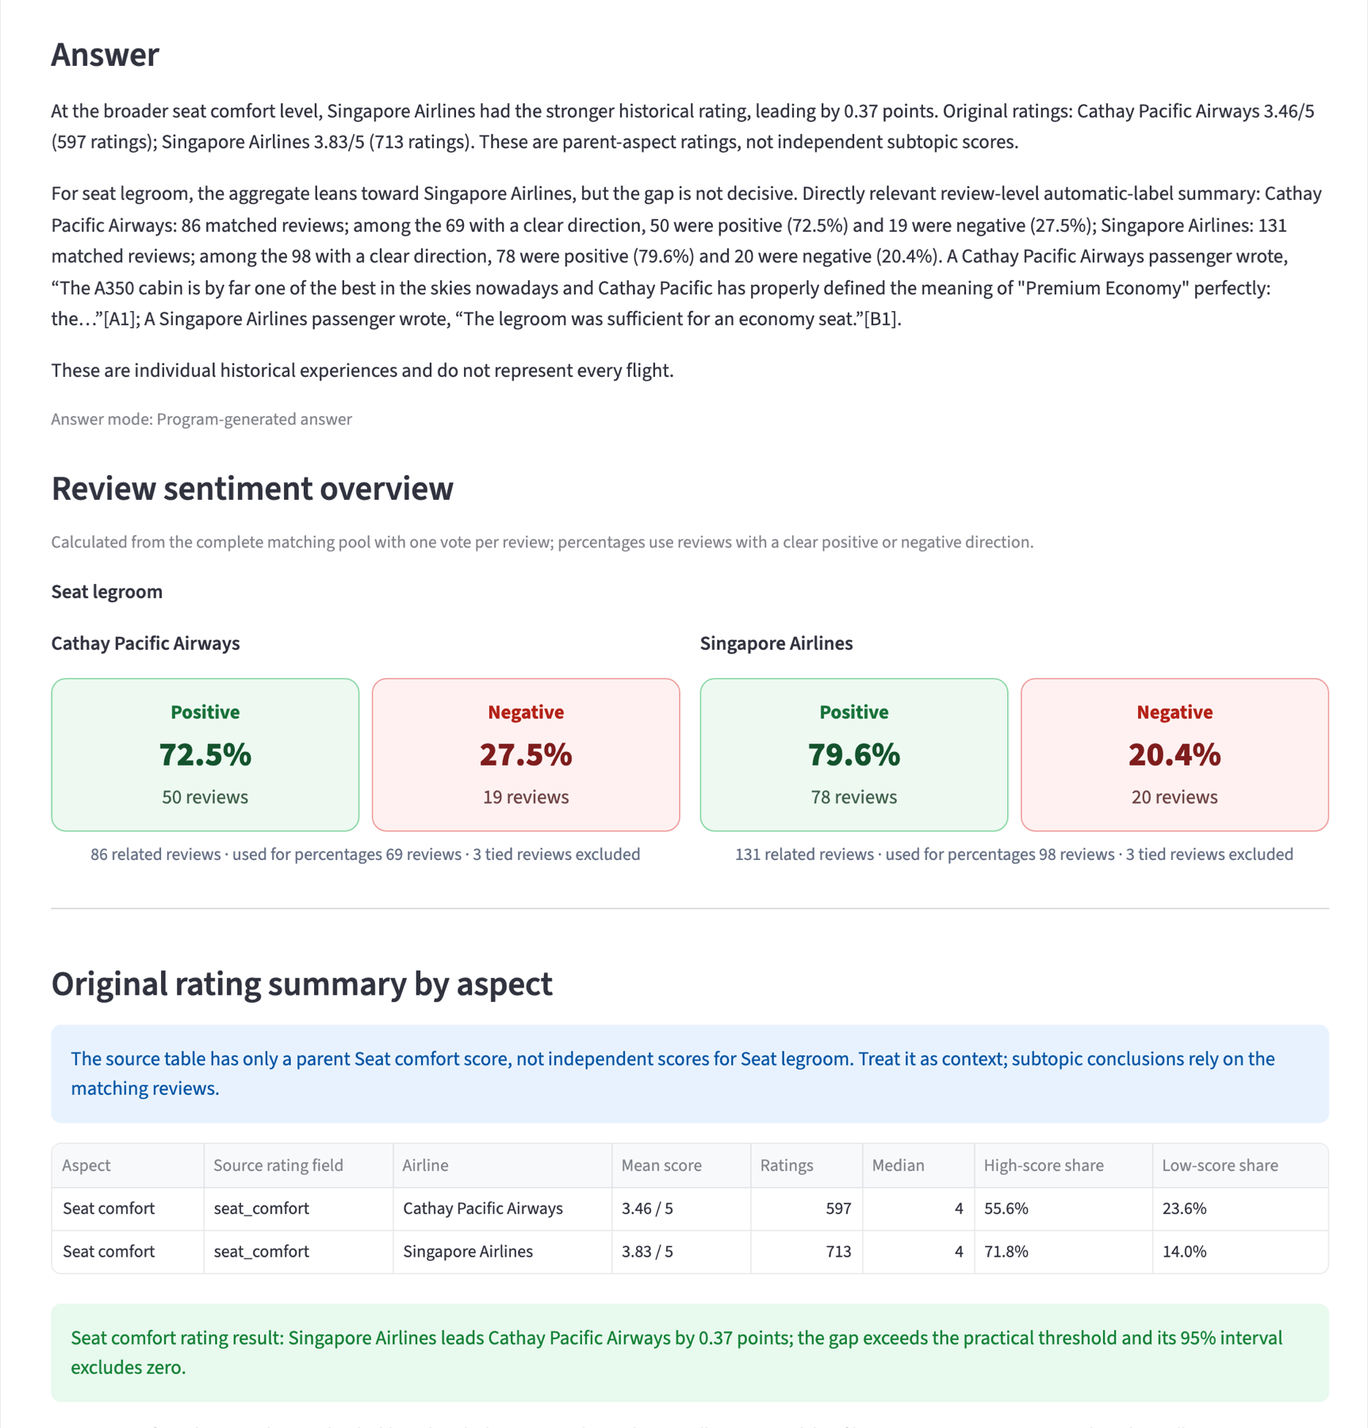
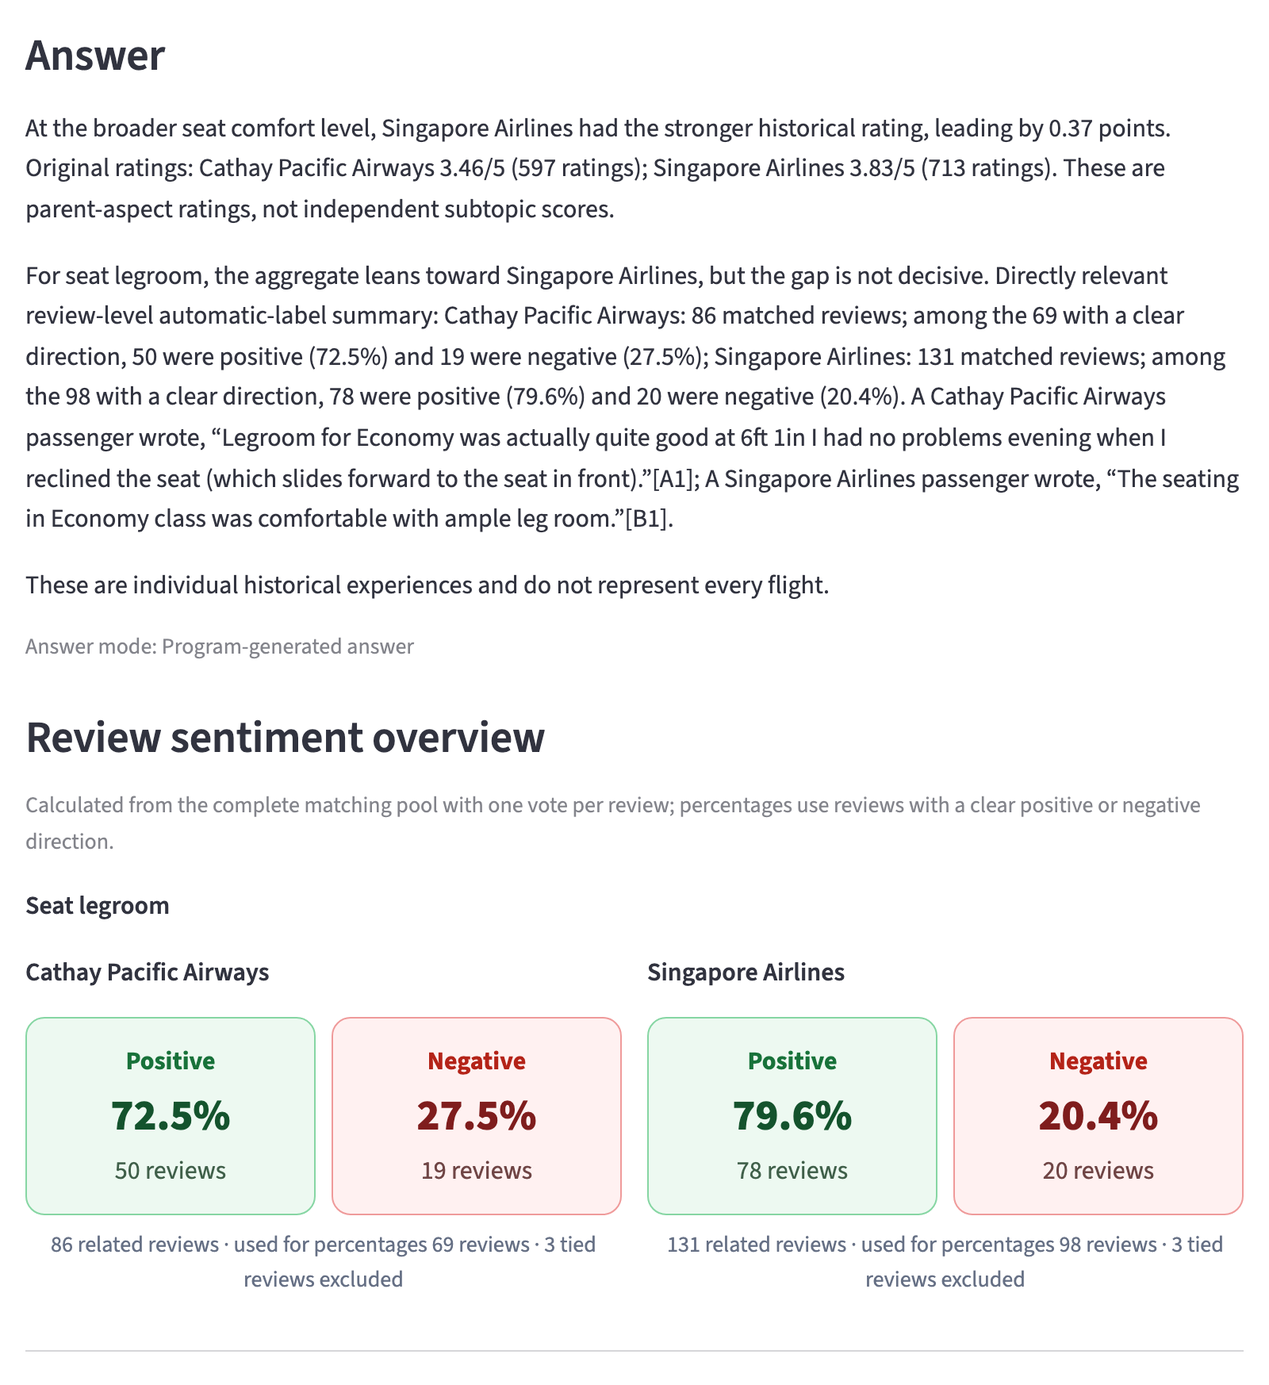
Report: retrieval innovation ablation (E1b), state-of-the-art context, legible UI figures, last matric number

diff --git a/report/final/main.tex b/report/final/main.tex
@@ -165,17 +165,30 @@ Q5 & Downstream innovations; ablation studies & \S\ref{sec:gen}, \S\ref{sec:exp-
 \paragraph{Retrieval.} Sparse retrieval with BM25~\cite{bm25} remains a strong baseline; dense bi-encoders such as
 Sentence-BERT~\cite{sbert} with MiniLM~\cite{minilm} capture paraphrases and are searched efficiently with
 FAISS~\cite{faiss}. Reciprocal rank fusion~\cite{rrf} combines rankings without calibrating scores, and cross-encoders
-trained on MS MARCO~\cite{msmarco,nogueira2019} are the usual second-stage rerankers. We evaluate with
-NDCG~\cite{ndcg} and related rank-aware metrics.
+trained on MS MARCO~\cite{msmarco,nogueira2019} are the usual second-stage rerankers. BEIR~\cite{beir} showed that
+BM25 stays hard to beat out of domain, which E1 confirms. Larger encoders such as BGE~\cite{bge} score higher on
+embedding benchmarks, and HyDE~\cite{hyde} expands a query with an LLM-written hypothetical answer. We keep MiniLM
+because \num{529031} sentences must be encoded on a laptop, and expand queries from a fixed taxonomy instead of an LLM:
+the expansion is inspectable and adds no model call per query. We evaluate with NDCG~\cite{ndcg} and related
+rank-aware metrics.
 
-\paragraph{Aspect-based sentiment.} Aspect-based sentiment analysis~\cite{pontiki2014} has moved from lexicon and rule
-systems such as SenticNet~\cite{senticnet} to fine-tuned transformers~\cite{xu2019bert} and to zero-shot prompting of
-large language models. LLM labels can replace part of the human annotation effort~\cite{gilardi2023}, and knowledge
-distillation~\cite{hinton2015} transfers an expensive model's behaviour into a cheaper one.
+\paragraph{Aspect-based sentiment.} Aspect-based sentiment analysis~\cite{pontiki2014,zhang2023absasurvey} has moved
+from lexicon and rule systems such as SenticNet~\cite{senticnet} to fine-tuned transformers~\cite{xu2019bert} and
+instruction-tuned generators such as InstructABSA~\cite{instructabsa}, which report state-of-the-art results on SemEval benchmarks. Both need
+in-domain aspect labels, which our eight-aspect scheme does not have beyond the gold set. A systematic study of LLMs for
+sentiment~\cite{zhang2024reality} found them strong zero-shot on simple polarity but behind fine-tuned small models on
+structured tasks such as ABSA, and strongest when labels are scarce. LLM labels can replace part of the human
+annotation effort~\cite{gilardi2023}, and knowledge distillation~\cite{hinton2015} transfers an expensive model's
+behaviour into a cheaper one; zero-shot NLI~\cite{yin2019,laurer2024} is another label-free classifier. Our design
+follows from these results: a zero-shot LLM teacher, where labels are scarce, distilled into a fast student for the
+whole corpus (\cref{sec:cls}), with NLI as a second opinion on objectivity.
 
 \paragraph{Grounded generation.} Retrieval-augmented generation~\cite{rag} conditions a generator on retrieved
 passages; RAGAS~\cite{ragas} defines reference-free answer metrics (faithfulness, answer relevance, context
-precision) that we adopt.
+precision) that we adopt. ALCE~\cite{alce} evaluates answers that cite their sources, and Self-RAG~\cite{selfrag}
+trains the generator to critique its own retrieval and output. Training a generator is out of reach for a laptop 4B
+model, so we enforce grounding outside it: citations must point to displayed evidence, numbers must match
+program-computed counts, and a program-written answer replaces a draft that fails (\cref{sec:gen}).
 
 %------------------------------------------------------- Knowledge base (Q1)
 \section{Knowledge Base Construction}
@@ -355,7 +368,7 @@ are metadata and timeline search: a route or date-window question must not be an
 Sub-attribute routing (R2) is query expansion driven by a taxonomy of 46 sub-attributes (Appendix~\ref{app:taxonomy})
 rather than by pseudo-relevance feedback, which would drift towards the dominant aspect of the top documents. The
 full-slice scan (R3) makes counts such as ``95 direct legroom sentences in 86 reviews'' exact instead of dependent on
-$k$, which is what allows the verdict to be computed over all evidence.
+$k$, which is what allows the verdict to be computed over all evidence. E1b (\cref{tab:innov}) measures each change.
 
 \begin{table*}[t]
 \centering\small
@@ -469,28 +482,32 @@ JSON keeps the original.
 
 \begin{figure*}[t]
 \centering
-\includegraphics[width=0.86\textwidth]{figures/ui_single.png}
+\begin{minipage}[b]{0.64\textwidth}
+\includegraphics[width=\linewidth]{figures/ui_single.png}
+\end{minipage}\hfill
+\begin{minipage}[b]{0.33\textwidth}
 \caption{The interface, single-airline question in English mode. The parser detected airline, aspect (seat) and
 sub-attribute (legroom). The program-written answer cites four sentences; the overview counts 131 matching reviews, 98
-of them with a clear direction (79.6\% positive).}
+of them with a clear direction (79.6\% positive). The sidebar holds the structured filters (airline, airlines to
+compare, cabin, aspect, evidence polarity, and route and date under the last expander).}
 \label{fig:ui}
+\end{minipage}
 \end{figure*}
 
 \begin{figure*}[t]
 \centering
-\begin{subfigure}[t]{0.44\textwidth}
-\includegraphics[height=78mm]{figures/ui_compare_answer.png}
-\caption{Answer, full-pool tally and rating test.}
+\begin{subfigure}[t]{0.548\textwidth}
+\includegraphics[width=\linewidth]{figures/ui_compare_answer.png}
+\caption{Answer, with the rating test, and full-pool tally.}
 \end{subfigure}\hfill
-\begin{subfigure}[t]{0.55\textwidth}
-\raggedleft
-\includegraphics[height=78mm]{figures/ui_compare_evidence.png}
+\begin{subfigure}[t]{0.432\textwidth}
+\includegraphics[width=\linewidth]{figures/ui_compare_evidence.png}
 \caption{Evidence tab with coverage counts.}
 \end{subfigure}
 \caption{Comparison of Cathay Pacific and Singapore Airlines on economy legroom. Singapore Airlines' higher
 seat-comfort rating (3.83 vs.\ 3.46 of 5) is significant and reported for the parent aspect; the legroom tallies (72.5\%
 vs.\ 79.6\% positive) are reported as not decisive. The evidence tab shows 95 direct legroom sentences in 86 reviews and
-a retrieval time of 4.5\,s (a separate run from \cref{tab:five}).}
+a retrieval time of 4.4\,s (a separate run from \cref{tab:five}).}
 \label{fig:ui-compare}
 \end{figure*}
 
@@ -598,6 +615,47 @@ a long comfort description, over short sentences that name the attribute. We the
 that already mention the requested sub-attribute. Success@10 is 1.0 everywhere, so differences are about ordering and
 coverage. These relevance labels are reproducible but favour explicit mentions, which advantages BM25 and under-counts dense
 paraphrases (``knees touching the seat in front''); human judgements would make the comparison stronger.
+
+\paragraph{Which innovation matters? (E1b)} E1 fixes the constraints and the query and varies the retriever. To
+measure the innovations of \cref{tab:fixes} themselves, we rebuild the 30 units from the first version upwards
+(\cref{tab:innov}). Relevance here does not reuse the expansion vocabulary: a hit counts only if it satisfies the
+question's constraints, checked from metadata, and the local Qwen3-4B, shown only the attribute's English name, says
+the sentence is about it (yes/no, 620 judgements). The judge answered 22 of 23 hand-written calibration sentences
+correctly; a spot check of 40 random judgements found 6 errors, mostly generic complaints about the airline accepted as
+relevant, so absolute precision is somewhat optimistic for every row.
+
+\begin{table*}[t]
+\centering\small
+\caption{E1b: the retrieval innovations of \cref{tab:fixes} added one at a time on the 30 units of E1, all with hybrid
+retrieval and RRF. \emph{In scope}: share of the top 10 that satisfies the question's airline, cabin and other
+constraints (exact, from metadata). P@5, MRR and NDCG@10 (binary) count a hit as relevant only if it is in scope and
+the LLM judge says it is about the attribute. \emph{Direct}: share of the top 10 that names the sub-attribute
+explicitly (keyword match; shares vocabulary with R2). $\Delta$: NDCG@10 change from the row above, with 95\%
+bootstrap interval.}
+\label{tab:innov}
+\begin{tabular}{@{}lrrrrrl@{}}
+\toprule
+\textbf{Configuration} & \textbf{In scope} & \textbf{P@5} & \textbf{MRR} & \textbf{NDCG@10} & \textbf{Direct} & \textbf{$\Delta$NDCG@10 [95\% CI]} \\
+\midrule
+First version: question as typed, whole corpus & 0.213 & 0.053 & 0.102 & 0.057 & 0.000 & \\
++ parsed into English keywords (cross-lingual) & 0.350 & 0.160 & 0.389 & 0.173 & 0.070 & $+0.116$ [$+0.060$, $+0.175$] \\
++ R1 hard metadata constraints & \best{1.000} & 0.953 & \best{1.000} & 0.934 & 0.670 & $+0.761$ [$+0.673$, $+0.838$] \\
+\rowcolor{shade} + R2 sub-attribute expansion (deployed) & \best{1.000} & \best{0.967} & 0.983 & \best{0.951} & \best{0.837} & $+0.016$ [$-0.022$, $+0.057$] \\
+\midrule
+Deployed without R1 & 0.160 & 0.127 & 0.297 & 0.121 & 0.097 & $-0.830$ [$-0.892$, $-0.763$] \\
+\bottomrule
+\end{tabular}
+\end{table*}
+
+Hard constraints are by far the largest gain. Without them only 16--35\% of the top 10 come from the requested airline
+and cabin, because the sentence about legroom rarely names the airline; with them every hit does, and NDCG@10 rises by
+0.761. Parsing the Chinese question into English keywords lifts NDCG@10 from 0.057 to 0.173, since neither BM25 nor
+the English MiniLM can match Chinese text to an English corpus. Sub-attribute expansion adds little once constraints
+are in place ($+0.016$, not significant): in a slice of one airline and cabin, the attribute name alone already finds
+on-topic sentences. What it raises is the share of hits that name the sub-attribute explicitly (0.67 to 0.84), which
+the full-slice scan (R3) relies on. R3 itself needs no ranking metric: even the best configuration's top 50 holds only
+38\% of the direct-mention sentences (Recall@50, \cref{tab:retrieval}), so a verdict computed from the top $k$ would
+see a minority of the evidence.
 
 \subsection{E2: How fast is a query? (Q2)}
 \label{sec:exp-speed}
@@ -1058,8 +1116,8 @@ experiences, not current service.
 
 We built a local RAG system for airline-service questions that keeps constraints, works at the level of fine-grained
 attributes and gives verdicts a user can verify. Four lessons stand out. First, structured constraints and
-attribute routing fixed the failing queries of \cref{tab:fixes}, which no change of ranking model addressed, and a
-general-purpose cross-encoder even hurt. Second, distilling an LLM labeller into a linear classifier recovers most of its gain in objective detection and
+attribute routing fixed the failing queries of \cref{tab:fixes}: hard metadata constraints alone raise NDCG@10 by 0.76
+(E1b), far more than any change of ranking model, and a general-purpose cross-encoder even hurt. Second, distilling an LLM labeller into a linear classifier recovers most of its gain in objective detection and
 about half of its gain in joint accuracy at a tiny fraction of its cost, provided selection is kept away from the test set. Third, balanced
 evidence plus validation with a program-written fallback gives the most faithful final answers (Y + Z is the best of
 eight configurations), but the gains are not additive: exact full-pool statistics fix the verdict while lowering judged
@@ -1119,6 +1177,9 @@ outputs/query_quality_runtime/venv311/bin/python scripts/local_qa_server.py
 # retrieval benchmark and targeted checks (E1, E6); RAG metrics and latency (E2, E5)
 .venv/bin/python -u experiments/final_auto_eval/run.py --output-dir outputs/final_auto_eval_replay
 .venv/bin/python -u experiments/final_rag_eval/run.py --output-dir outputs/final_rag_eval_replay
+# retrieval innovation ablation (E1b); the LLM judge needs the model server running
+.venv/bin/python -u experiments/final_auto_eval/retrieval_ablation.py \
+    --output-dir outputs/retrieval_ablation_replay
 
 # factorial ablation (E6) and airline ranking (E7): Linux GPU, Transformers backend;
 # full commands in experiments/downstream_evaluation/README.md and FACTORIAL.md

diff --git a/experiments/final_auto_eval/retrieval_ablation.py b/experiments/final_auto_eval/retrieval_ablation.py
@@ -1,0 +1,176 @@
+#!/usr/bin/env python3
+"""Ablate the retrieval innovations of report Section 4.1 on the E1 units (report E1b).
+
+Configurations, each ranked by hybrid BM25 + MiniLM retrieval with RRF:
+  v0_raw_question     the question as the user typed it, whole corpus (first version)
+  v1_keywords         English "airline cabin attribute" keywords, whole corpus
+  v2_constraints      + R1: airline, cabin and other parsed fields as hard filters
+  v3_expansion        + R2: sub-attribute expansion terms as the query (deployed retriever)
+  v3_minus_r1         v3 without the filters (expansion terms plus airline and cabin words)
+
+Relevance is judged independently of the expansion vocabulary: a hit counts only if
+it satisfies the parsed constraints (checked from metadata) and the local LLM, given
+only the attribute's English name, answers yes to "is this sentence about it?".
+Judgements are cached so an interrupted run resumes.
+"""
+from __future__ import annotations
+
+import argparse
+from datetime import datetime, timezone
+import json
+import math
+from pathlib import Path
+import sys
+import urllib.request
+
+import numpy as np
+import pandas as pd
+
+ROOT = Path(__file__).resolve().parents[2]
+sys.path.insert(0, str(ROOT))
+
+from experiments.final_auto_eval.run import (  # noqa: E402
+    CASES, LABELS, filtered_hits, metadata_mask, qrels_for, retrieval_units,
+)
+from src.config import CHUNKS  # noqa: E402
+from src.retriever import rrf_fuse, search_bm25, search_dense  # noqa: E402
+
+ENDPOINT = "http://127.0.0.1:8765"
+CONFIGS = ("v0_raw_question", "v1_keywords", "v2_constraints", "v3_expansion", "v3_minus_r1")
+STEPS = (("v0_raw_question", "v1_keywords"), ("v1_keywords", "v2_constraints"),
+         ("v2_constraints", "v3_expansion"), ("v3_minus_r1", "v3_expansion"))
+# English names as shown in the interface (app/streamlit_app.py), for the topics of E1.
+TOPIC_NAMES = {
+    "legroom": "seat legroom", "width": "seat width", "recline": "seat recline and lie-flat capability",
+    "seat_cleanliness": "seat cleanliness", "variety": "meal variety and choice",
+    "portion": "meal portion size", "quality": "food quality and taste", "drinks": "onboard drinks",
+    "content": "entertainment content", "wifi": "onboard Wi-Fi", "attitude": "cabin crew attitude",
+    "baggage": "baggage service", "delay_handling": "delay and cancellation handling",
+    "refund": "refunds and changes", "support": "customer support", "checkin": "check-in service",
+    "punctuality": "punctuality",
+}
+JUDGE_PROMPT = (
+    "A traveller searched airline reviews for: {topic}.\n"
+    "Sentence: \"{text}\"\n"
+    "Does this sentence give information or an opinion about {topic} specifically? Answer yes or no.")
+
+
+def hybrid(query: str, allowed: set[str] | None) -> list[str]:
+    if allowed is None:
+        bm25, dense = search_bm25(query, 100), search_dense(query, 100)
+    else:
+        bm25, _ = filtered_hits("bm25", query, allowed)
+        dense, _ = filtered_hits("dense", query, allowed)
+    return [key for key, _ in rrf_fuse(bm25, dense, top_k=100)][:10]
+
+
+def judge(topic: str, text: str) -> int:
+    prompt = JUDGE_PROMPT.format(topic=TOPIC_NAMES[topic], text=text)
+    body = json.dumps({"messages": [{"role": "user", "content": prompt}], "max_tokens": 4,
+                       "temperature": 0.0}).encode("utf-8")
+    request = urllib.request.Request(ENDPOINT + "/generate", data=body,
+                                     headers={"Content-Type": "application/json"}, method="POST")
+    with urllib.request.urlopen(request, timeout=120) as response:
+        reply = json.loads(response.read().decode("utf-8"))["text"]
+    answer = reply.strip().lower()
+    if not answer.startswith(("yes", "no")):
+        raise RuntimeError(f"unparseable judge reply: {reply!r}")
+    return int(answer.startswith("yes"))
+
+
+def metrics(ids: list[str], grades: dict[str, int]) -> dict:
+    # Binary gains; the ideal ranking is over every relevant hit pooled from all configurations.
+    relevant = [grades.get(key, 0) == 1 for key in ids[:10]]
+    ideal = min(10, sum(grades.values()))
+    idcg = sum(1 / math.log2(rank + 1) for rank in range(1, ideal + 1))
+    dcg = sum(1 / math.log2(rank + 1) for rank, hit in enumerate(relevant, 1) if hit)
+    return {"precision_at_5": sum(relevant[:5]) / 5, "precision_at_10": sum(relevant) / 10,
+            "mrr": next((1 / rank for rank, hit in enumerate(relevant, 1) if hit), 0.0),
+            "ndcg_at_10": dcg / idcg if idcg else 0.0}
+
+
+def bootstrap(data: pd.DataFrame, left: str, right: str, column: str, repeats: int = 10000) -> dict:
+    pivot = data.pivot(index="unit_id", columns="config", values=column)
+    values = (pivot[right] - pivot[left]).to_numpy(dtype=float)
+    samples = np.random.default_rng(6127).choice(values, size=(repeats, len(values))).mean(axis=1)
+    return {"mean_delta": round(float(values.mean()), 4),
+            "ci95": [round(float(np.percentile(samples, 2.5)), 4),
+                     round(float(np.percentile(samples, 97.5)), 4)]}
+
+
+def main() -> int:
+    parser = argparse.ArgumentParser()
+    parser.add_argument("--output-dir", type=Path, required=True)
+    args = parser.parse_args()
+    out = args.output_dir
+    if (out / "results.json").exists():
+        raise SystemExit(f"Refusing to overwrite {out}")
+    out.mkdir(parents=True, exist_ok=True)
+    cache_path = out / "judgements.jsonl"
+    cache = {}
+    if cache_path.exists():
+        for line in cache_path.read_text().splitlines():
+            row = json.loads(line)
+            cache[(row["topic"], row["chunk_id"])] = row["grade"]
+
+    chunks = pd.read_parquet(CHUNKS, columns=["chunk_id", "text", "airline", "cabin",
+                                              "traveller_type", "route_from", "route_to", "date"])
+    labels = pd.read_parquet(LABELS, columns=["chunk_id", "aspect", "subjectivity", "polarity"])
+    frame = chunks.merge(labels, on="chunk_id", how="inner", validate="one_to_one")
+    text_of = dict(zip(frame.chunk_id.astype(str), frame.text.astype(str)))
+    units = retrieval_units(json.loads(CASES.read_text()), frame)
+
+    rows, runs = [], []
+    with cache_path.open("a") as cache_file:
+        for number, unit in enumerate(units, 1):
+            allowed = set(frame.loc[metadata_mask(frame, unit["filters"]), "chunk_id"].astype(str))
+            cabin = unit["filters"].get("cabin", "")
+            keywords = f"{unit['airline']} {cabin} {TOPIC_NAMES[unit['topic']]}".strip()
+            ranked = {
+                "v0_raw_question": hybrid(unit["question"], None),
+                "v1_keywords": hybrid(keywords, None),
+                "v2_constraints": hybrid(TOPIC_NAMES[unit["topic"]], allowed),
+                "v3_expansion": hybrid(unit["query"], allowed),
+                "v3_minus_r1": hybrid(f"{unit['airline']} {cabin} {unit['query']}", None),
+            }
+            pooled = {key for ids in ranked.values() for key in ids if key in allowed}
+            for key in sorted(pooled):
+                if (unit["topic"], key) not in cache:
+                    cache[(unit["topic"], key)] = judge(unit["topic"], text_of[key])
+                    cache_file.write(json.dumps({"topic": unit["topic"], "chunk_id": key,
+                                                 "grade": cache[(unit["topic"], key)]}) + "\n")
+                    cache_file.flush()
+            # Hits outside the parsed constraints are irrelevant whatever their text says.
+            grades = {key: cache[(unit["topic"], key)] for key in pooled}
+            proxy = qrels_for(unit, frame)
+            print(f"[{number:02d}/{len(units)}] {unit['unit_id']} pooled={len(pooled)}", flush=True)
+            for config, ids in ranked.items():
+                rows.append({"unit_id": unit["unit_id"], "case_id": unit["case_id"],
+                             "topic": unit["topic"], "config": config,
+                             "in_constraints_at_10": sum(key in allowed for key in ids) / max(len(ids), 1),
+                             "proxy_direct_at_10": sum(key in proxy for key in ids) / max(len(ids), 1),
+                             **metrics(ids, grades)})
+                runs += [{"unit_id": unit["unit_id"], "config": config, "rank": rank, "chunk_id": key,
+                          "in_constraints": key in allowed, "grade": grades.get(key, 0),
+                          "text": text_of[key]} for rank, key in enumerate(ids, 1)]
+
+    data = pd.DataFrame(rows)
+    columns = ["in_constraints_at_10", "precision_at_5", "precision_at_10", "mrr", "ndcg_at_10",
+               "proxy_direct_at_10"]
+    summary = {config: {column: round(float(group[column].mean()), 4) for column in columns}
+               for config, group in data.groupby("config", sort=False)}
+    deltas = {f"{right}_minus_{left}": {column: bootstrap(data, left, right, column)
+                                        for column in ("precision_at_5", "ndcg_at_10")}
+              for left, right in STEPS}
+    result = {"created_at": datetime.now(timezone.utc).isoformat(), "units": len(units),
+              "judge": "Qwen3-4B-Instruct-2507 (local MLX server), temperature 0, yes/no, attribute name only",
+              "judged_sentences": len(cache), "summary": summary, "paired_deltas": deltas}
+    data.to_csv(out / "per_unit.csv", index=False)
+    pd.DataFrame(runs).to_csv(out / "runs_top10.csv", index=False)
+    (out / "results.json").write_text(json.dumps(result, indent=2) + "\n")
+    print(json.dumps(result, indent=2))
+    return 0
+
+
+if __name__ == "__main__":
+    raise SystemExit(main())

diff --git a/README.md b/README.md
@@ -119,6 +119,7 @@ ones resume from checkpoints, so replay into a new directory name. Commands are 
 | Q2/Q3, E1 | Retrieval benchmark (P@5, Recall@50, MRR, NDCG@10) | `experiments/final_auto_eval/run.py` | `outputs/final_auto_eval_20261019_v2/` |
 | Q2/Q4, E2, E5 | Query latency, RAG metrics on 20 questions | `experiments/final_rag_eval/run.py` | `outputs/final_rag_eval_20261019/` |
 | Q2, E2 | Retrieval components timed alone | `experiments/final_auto_eval/component_latency.py` | `outputs/component_latency_20261104/` |
+| Q3, E1b | Retrieval innovations added one at a time (LLM-judged relevance; needs the model server) | `experiments/final_auto_eval/retrieval_ablation.py` | `outputs/retrieval_ablation_20261104/` |
 | Q4, E3 | Classifier quality on the gold set | `experiments/distilled_label_index/evaluate_gold.py` | `outputs/distill_gold_audit_20261029/` |
 | Q5, E4 | LLM-to-student distillation | `experiments/distilled_label_index/` | `outputs/distill_*_20261029/`, `outputs/label_index_20261029_distilled/` |
 | Q5, E6 | Factorial ablation of X/Y/Z, targeted checks | `experiments/downstream_evaluation/`, `experiments/final_auto_eval/run.py` | see release notes |
